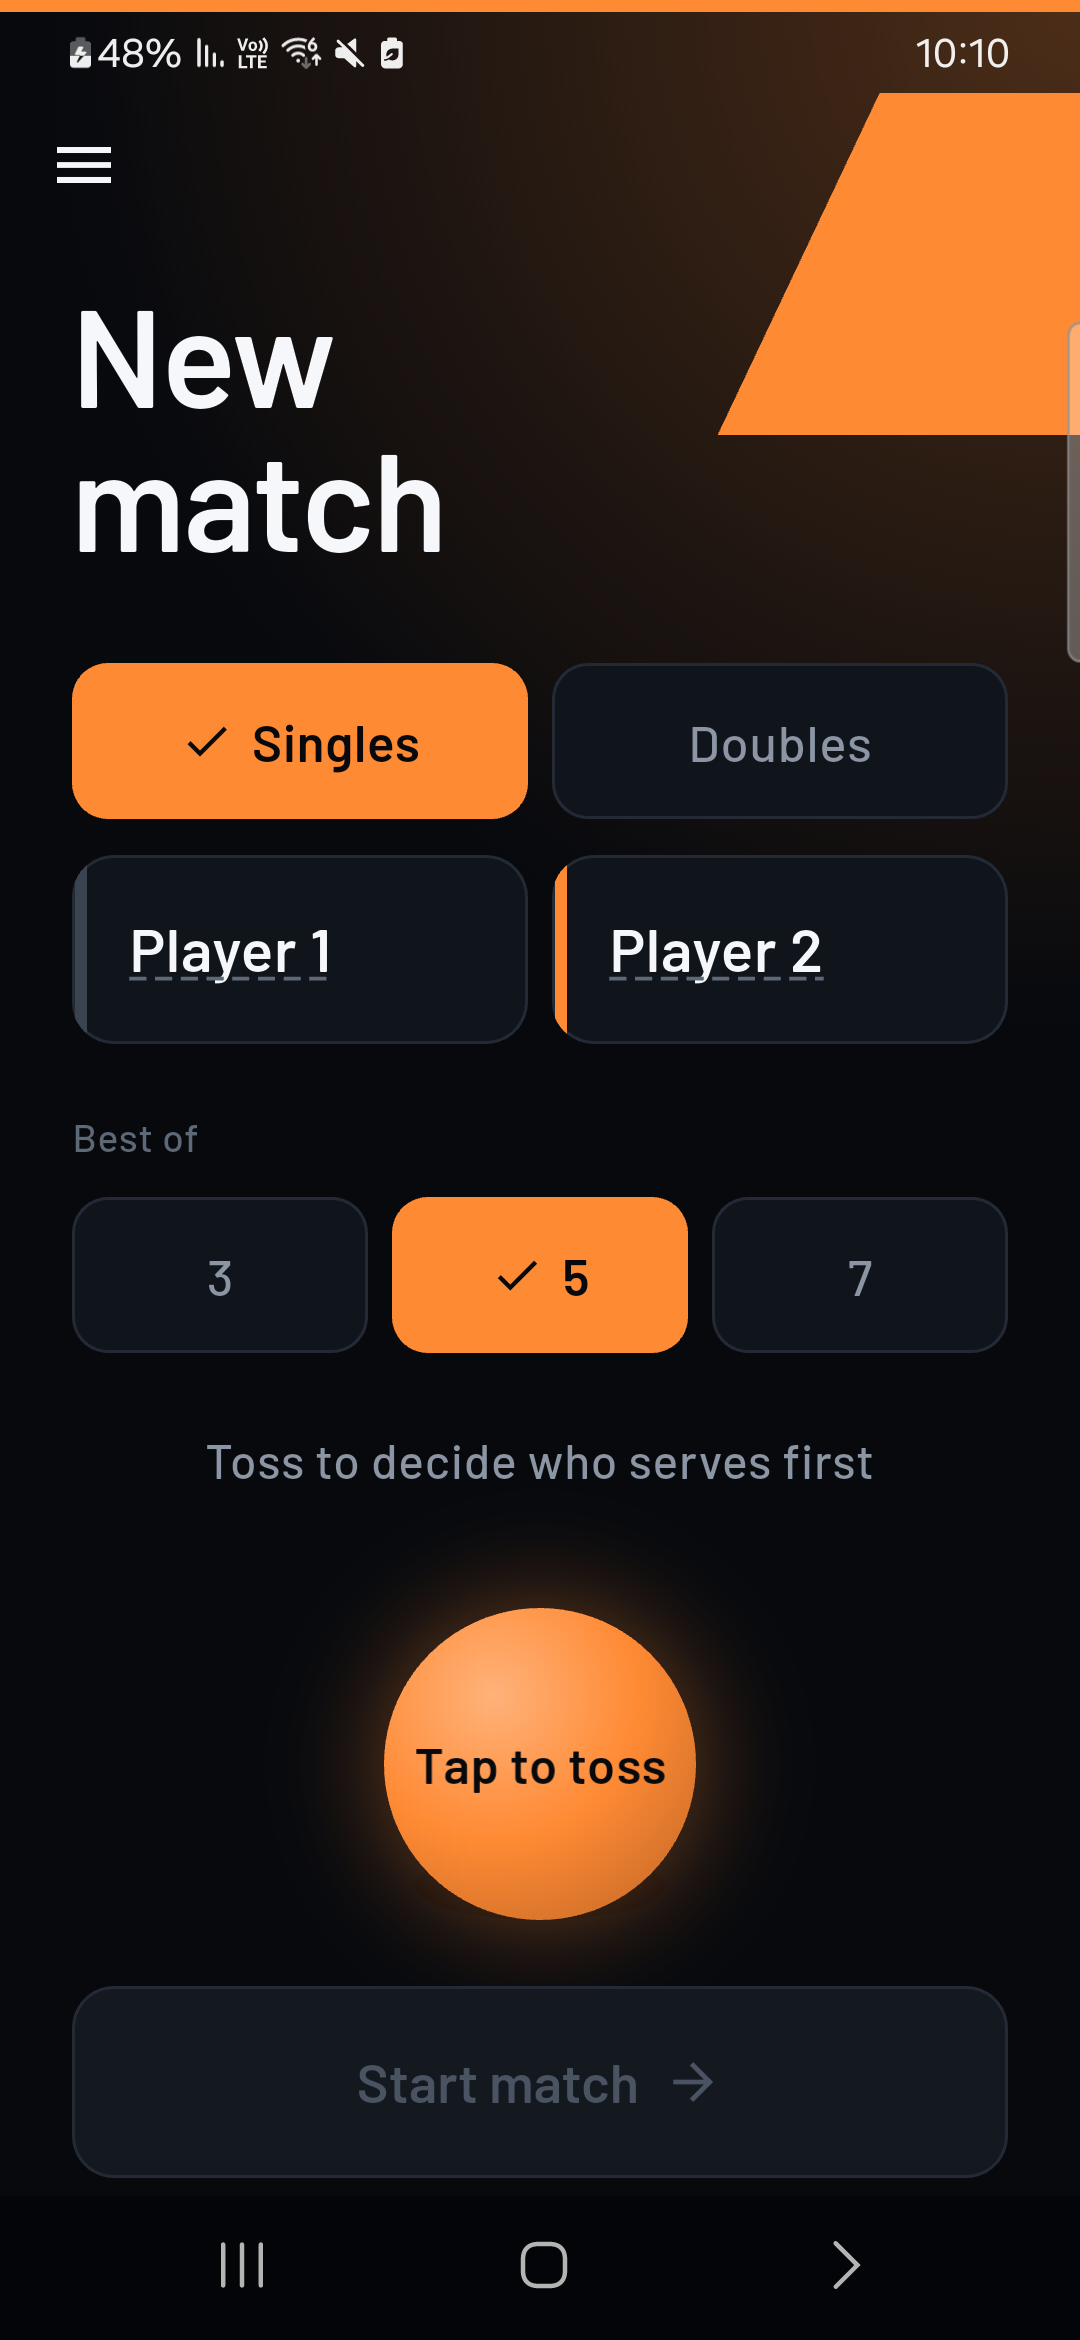
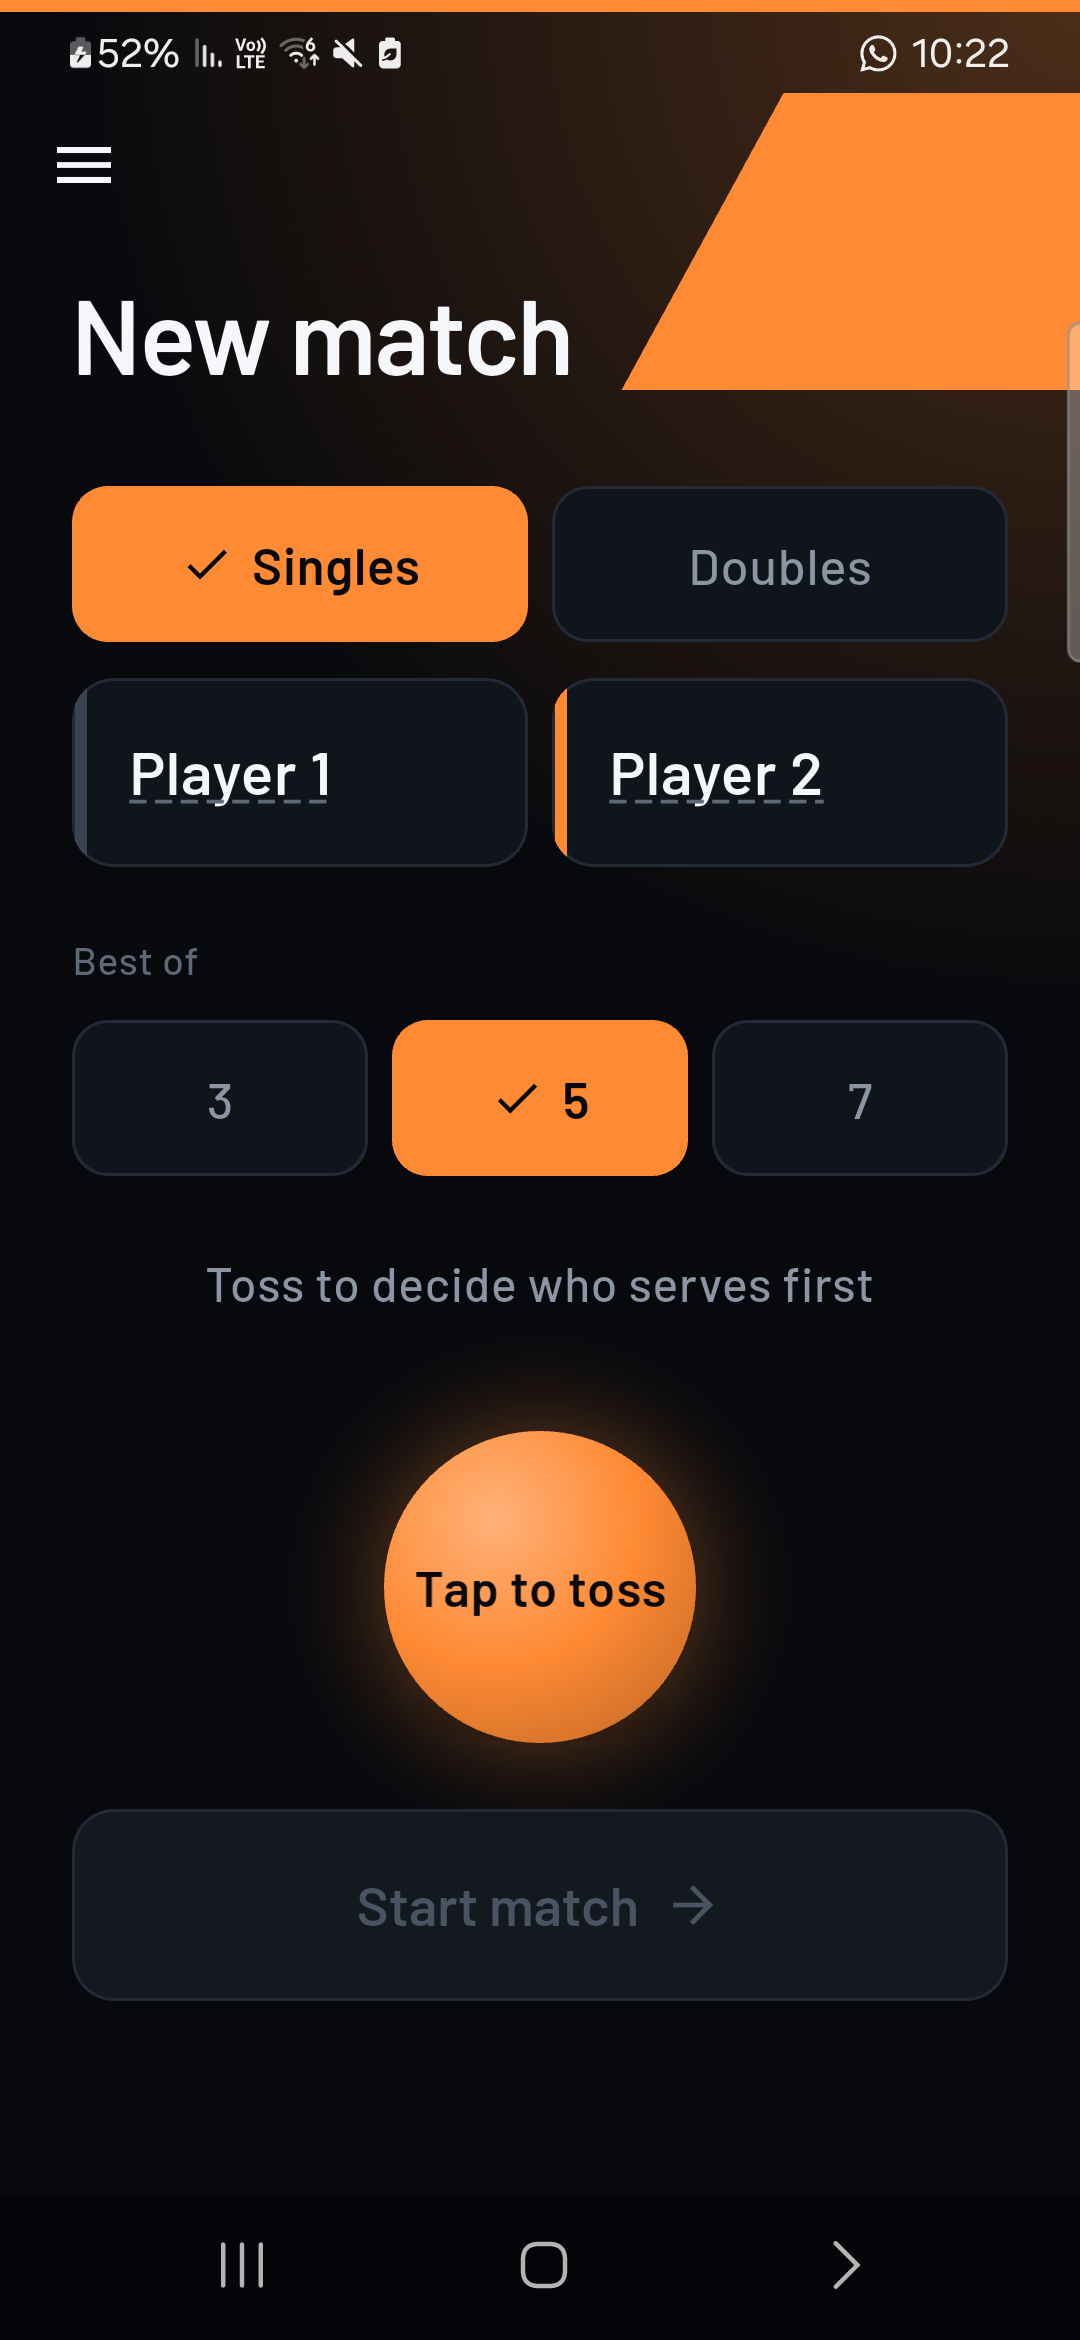
Keep the hero band title on one line
The title drops from 46px to 35px and no longer wraps: past its
share of the band it shrinks inside a FittedBox instead, so it
stays clear of the diagonal in every language and at larger text
scales. Left inset, the diagonal and the menu button are unchanged.

Tested at 320/360/412dp, text scale 1.0 and 1.3, in en/de/fr, for
both the setup screen and the help page. Setup screenshots retaken
on the S23.

diff --git a/lib/widgets/hero_band.dart b/lib/widgets/hero_band.dart
@@ -6,7 +6,7 @@ import '../theme/app_theme.dart';
 
 /// The hero header shared by the setup screen and the help page —
 /// introduced for the setup screen (Phase 4P), replacing the previous
-/// plain Material `AppBar` — a large title sitting at the *bottom*-left
+/// plain Material `AppBar` — a large one-line title at the *bottom*-left
 /// of a tall band, with the hamburger menu at its top-left, doesn't fit
 /// a standard 56dp toolbar's layout at all. A background with a large
 /// orange diagonal shape in the upper-right corner echoes the app
@@ -43,56 +43,37 @@ class HeroBand extends StatelessWidget {
   // measurement.
   static const _titleStyle = TextStyle(
     fontFamily: AppTypography.uiFamily,
-    fontSize: 46,
+    fontSize: 35,
     height: 1.05,
     fontWeight: FontWeight.w600,
     letterSpacing: -0.6,
   );
 
-  /// The title may wrap onto a second line, but never further.
-  static const _titleMaxLines = 2;
-
-  /// How much of the band's width the title may take before wrapping —
-  /// the rest is the diagonal's.
+  /// How much of the band's width the title may take before it starts
+  /// shrinking — the rest is the diagonal's.
   static const _titleWidthFraction = 0.62;
 
-  /// The diagonal covers the top of the band only; a two-line title
-  /// makes the band taller, not the wedge.
+  /// The diagonal covers the top of the band only, however tall the
+  /// band's content makes it.
   static const _wedgeMaxHeight = 114.0;
 
   static const _accentBarHeight = 4.0;
 
-  /// Lays the title out within [maxWidth], shrinking the font only as
-  /// far as needed for its longest single word to fit on a line — a
-  /// large system font or a long translated word then gets a smaller
-  /// title instead of one broken mid-word.
-  static TextPainter _layoutTitle(
+  /// The title's natural single-line width at the ambient text scale.
+  static double _titleNaturalWidth(
     String title,
-    double maxWidth,
     TextScaler textScaler,
     TextDirection textDirection,
   ) {
-    TextPainter paint(String text, TextStyle style, {int? maxLines}) =>
-        TextPainter(
-          text: TextSpan(text: text, style: style),
-          textDirection: textDirection,
-          textScaler: textScaler,
-          maxLines: maxLines,
-        );
-
-    var style = _titleStyle;
-    var widestWord = 0.0;
-    for (final word in title.split(RegExp(r'\s+'))) {
-      final painter = paint(word, style)..layout();
-      widestWord = max(widestWord, painter.width);
-      painter.dispose();
-    }
-    if (widestWord > maxWidth && widestWord > 0) {
-      style = style.copyWith(
-          fontSize: _titleStyle.fontSize! * maxWidth / widestWord);
-    }
-    return paint(title, style, maxLines: _titleMaxLines)
-      ..layout(maxWidth: maxWidth);
+    final painter = TextPainter(
+      text: TextSpan(text: title, style: _titleStyle),
+      textDirection: textDirection,
+      textScaler: textScaler,
+      maxLines: 1,
+    )..layout();
+    final width = painter.width;
+    painter.dispose();
+    return width;
   }
 
   @override
@@ -168,24 +149,25 @@ class HeroBand extends StatelessWidget {
                   const leadingInset = 4.0;
                   const titleInset = 24.0;
 
-                  // Measured directly (rather than reading the rendered
-                  // Text's own size after layout) so the diagonal's
+                  // The title is always one line: past this width it
+                  // shrinks (see the `FittedBox` below) rather than
+                  // wrapping or running into the diagonal. Its drawn
+                  // width is measured directly (rather than read off the
+                  // rendered Text after layout) so the diagonal's
                   // clearance is known in the very same build/paint pass
                   // — no post-frame callback or extra rebuild needed.
-                  // This is what lets the wedge stay clear of the title
-                  // in every shipped language. See the "hero band"
-                  // section of PHASE4P_PREMIUM_VISUAL_AND_MOTION_PASS.md.
+                  // See the "hero band" section of
+                  // PHASE4P_PREMIUM_VISUAL_AND_MOTION_PASS.md.
                   final titleMaxWidth = max(0.0,
                       constraints.maxWidth * _titleWidthFraction - titleInset);
-                  final titlePainter = _layoutTitle(
-                    title,
+                  final titleWidth = min(
                     titleMaxWidth,
-                    MediaQuery.textScalerOf(context),
-                    Directionality.of(context),
+                    _titleNaturalWidth(
+                      title,
+                      MediaQuery.textScalerOf(context),
+                      Directionality.of(context),
+                    ),
                   );
-                  final titleStyle = titlePainter.text!.style!;
-                  final titleWidth = titlePainter.width;
-                  titlePainter.dispose();
 
                   return Stack(
                     clipBehavior: Clip.none,
@@ -241,17 +223,19 @@ class HeroBand extends StatelessWidget {
                             const SizedBox(height: 14),
                             Padding(
                               padding: const EdgeInsets.only(left: titleInset),
-                              // The same width limit the measurement
-                              // above used, so the text wraps exactly
-                              // as measured.
                               child: ConstrainedBox(
                                 constraints:
                                     BoxConstraints(maxWidth: titleMaxWidth),
-                                child: Text(
-                                  title,
-                                  maxLines: _titleMaxLines,
-                                  style: titleStyle.copyWith(
-                                      color: palette.scoreText),
+                                child: FittedBox(
+                                  fit: BoxFit.scaleDown,
+                                  alignment: Alignment.centerLeft,
+                                  child: Text(
+                                    title,
+                                    maxLines: 1,
+                                    softWrap: false,
+                                    style: _titleStyle.copyWith(
+                                        color: palette.scoreText),
+                                  ),
                                 ),
                               ),
                             ),

diff --git a/test/hero_band_title_test.dart b/test/hero_band_title_test.dart
@@ -1,0 +1,138 @@
+import 'package:flutter/material.dart';
+import 'package:flutter/rendering.dart';
+import 'package:flutter_test/flutter_test.dart';
+import 'package:shared_preferences/shared_preferences.dart';
+import 'package:tabletennis_scoreboard/l10n/gen/app_localizations.dart';
+import 'package:tabletennis_scoreboard/screens/help_screen.dart';
+import 'package:tabletennis_scoreboard/screens/setup_screen.dart';
+import 'package:tabletennis_scoreboard/theme/app_theme.dart';
+
+/// A real themed `MaterialApp` built from [buildAppTheme] — see
+/// `_themedApp` in `theme_parity_test.dart` for why a bare one won't do.
+Widget _themedApp(Widget child, Locale locale) => MaterialApp(
+      locale: locale,
+      localizationsDelegates: AppLocalizations.localizationsDelegates,
+      supportedLocales: AppLocalizations.supportedLocales,
+      theme: buildAppTheme(Brightness.light),
+      darkTheme: buildAppTheme(Brightness.dark),
+      themeMode: ThemeMode.dark,
+      home: child,
+    );
+
+Widget _setupScreen() => SetupScreen(
+      currentLocaleOverride: null,
+      onLocaleChanged: (_) {},
+      themeMode: ThemeMode.dark,
+      onThemeModeChanged: (_) {},
+    );
+
+void _usePhone(WidgetTester tester, double width, double textScale) {
+  tester.view.physicalSize = Size(width, 700);
+  tester.view.devicePixelRatio = 1.0;
+  tester.platformDispatcher.textScaleFactorTestValue = textScale;
+  addTearDown(tester.view.reset);
+  addTearDown(tester.platformDispatcher.clearTextScaleFactorTestValue);
+}
+
+/// Asserts the hero band's [title] is drawn on exactly one line, inside
+/// the screen, and clear of the orange diagonal.
+void _expectSingleLineTitle(
+    WidgetTester tester, String title, double screenWidth) {
+  expect(tester.takeException(), isNull);
+
+  final titleFinder = find.text(title);
+  expect(titleFinder, findsOneWidget);
+  final text = tester.widget<Text>(titleFinder);
+  expect(text.maxLines, 1);
+  expect(
+    find.ancestor(of: titleFinder, matching: find.byType(FittedBox)),
+    findsOneWidget,
+    reason: 'the title must shrink to fit rather than wrap or overflow',
+  );
+
+  // One line as actually laid out, not just as requested.
+  final paragraph = tester.renderObject<RenderParagraph>(titleFinder);
+  expect(paragraph.didExceedMaxLines, isFalse,
+      reason: '"$title" was truncated instead of shrunk');
+  final lines = paragraph
+      .getBoxesForSelection(
+          TextSelection(baseOffset: 0, extentOffset: title.length))
+      .map((box) => box.top.round())
+      .toSet();
+  expect(lines, hasLength(1),
+      reason: '"$title" wrapped onto ${lines.length} '
+          'lines');
+
+  // As drawn (after any FittedBox scaling): inside the screen...
+  final rect = tester.getRect(titleFinder);
+  expect(rect.left, greaterThanOrEqualTo(0));
+  expect(rect.right, lessThanOrEqualTo(screenWidth));
+
+  // ...and left of where the diagonal's lower edge starts.
+  final diagonal = tester.widget<CustomPaint>(find.byWidgetPredicate((widget) =>
+      widget is CustomPaint &&
+      widget.painter.runtimeType.toString() == '_HeroDiagonalPainter'));
+  final wedgeLeft = heroDiagonalBottomX(
+    bandWidth: screenWidth,
+    titleRight: (diagonal.painter as dynamic).titleRight as double,
+  );
+  expect(rect.right, lessThanOrEqualTo(wedgeLeft + 0.5),
+      reason: '"$title" (right edge ${rect.right}) runs into the diagonal '
+          '(starts at $wedgeLeft)');
+}
+
+void main() {
+  setUp(() {
+    SharedPreferences.setMockInitialValues({});
+  });
+
+  group('hero band title stays on one line', () {
+    for (final width in [320.0, 360.0, 412.0]) {
+      for (final textScale in [1.0, 1.3]) {
+        for (final language in ['en', 'de', 'fr']) {
+          final variant = '${width.toInt()}dp, text scale $textScale, '
+              '$language';
+          final locale = Locale(language);
+          final l10n = lookupAppLocalizations(locale);
+
+          testWidgets('setup screen ($variant)', (tester) async {
+            _usePhone(tester, width, textScale);
+            await tester.pumpWidget(_themedApp(_setupScreen(), locale));
+            await tester.pumpAndSettle();
+
+            _expectSingleLineTitle(tester, l10n.newMatchScreenTitle, width);
+          });
+
+          testWidgets('help page ($variant)', (tester) async {
+            _usePhone(tester, width, textScale);
+            await tester.pumpWidget(_themedApp(const HelpScreen(), locale));
+            await tester.pumpAndSettle();
+
+            _expectSingleLineTitle(tester, l10n.helpTitle, width);
+          });
+        }
+      }
+    }
+
+    testWidgets(
+        'the title keeps its full size when there is room, and only '
+        'shrinks when it would otherwise reach the diagonal', (tester) async {
+      // In the test font every glyph is one em wide, so "Aide" fits the
+      // title's share of a 412dp band and "Nouveau match" does not.
+      _usePhone(tester, 412, 1.0);
+      await tester
+          .pumpWidget(_themedApp(const HelpScreen(), const Locale('fr')));
+      await tester.pumpAndSettle();
+      final fits = tester.getSize(find.text('Aide'));
+      expect(
+          tester.getRect(find.text('Aide')).height, closeTo(fits.height, 0.5),
+          reason: 'a title that fits must not be scaled');
+
+      await tester.pumpWidget(_themedApp(_setupScreen(), const Locale('fr')));
+      await tester.pumpAndSettle();
+      final long = find.text('Nouveau match');
+      expect(tester.getRect(long).height, lessThan(tester.getSize(long).height),
+          reason: 'a title too wide for its share must be scaled down');
+    });
+  });
+}
